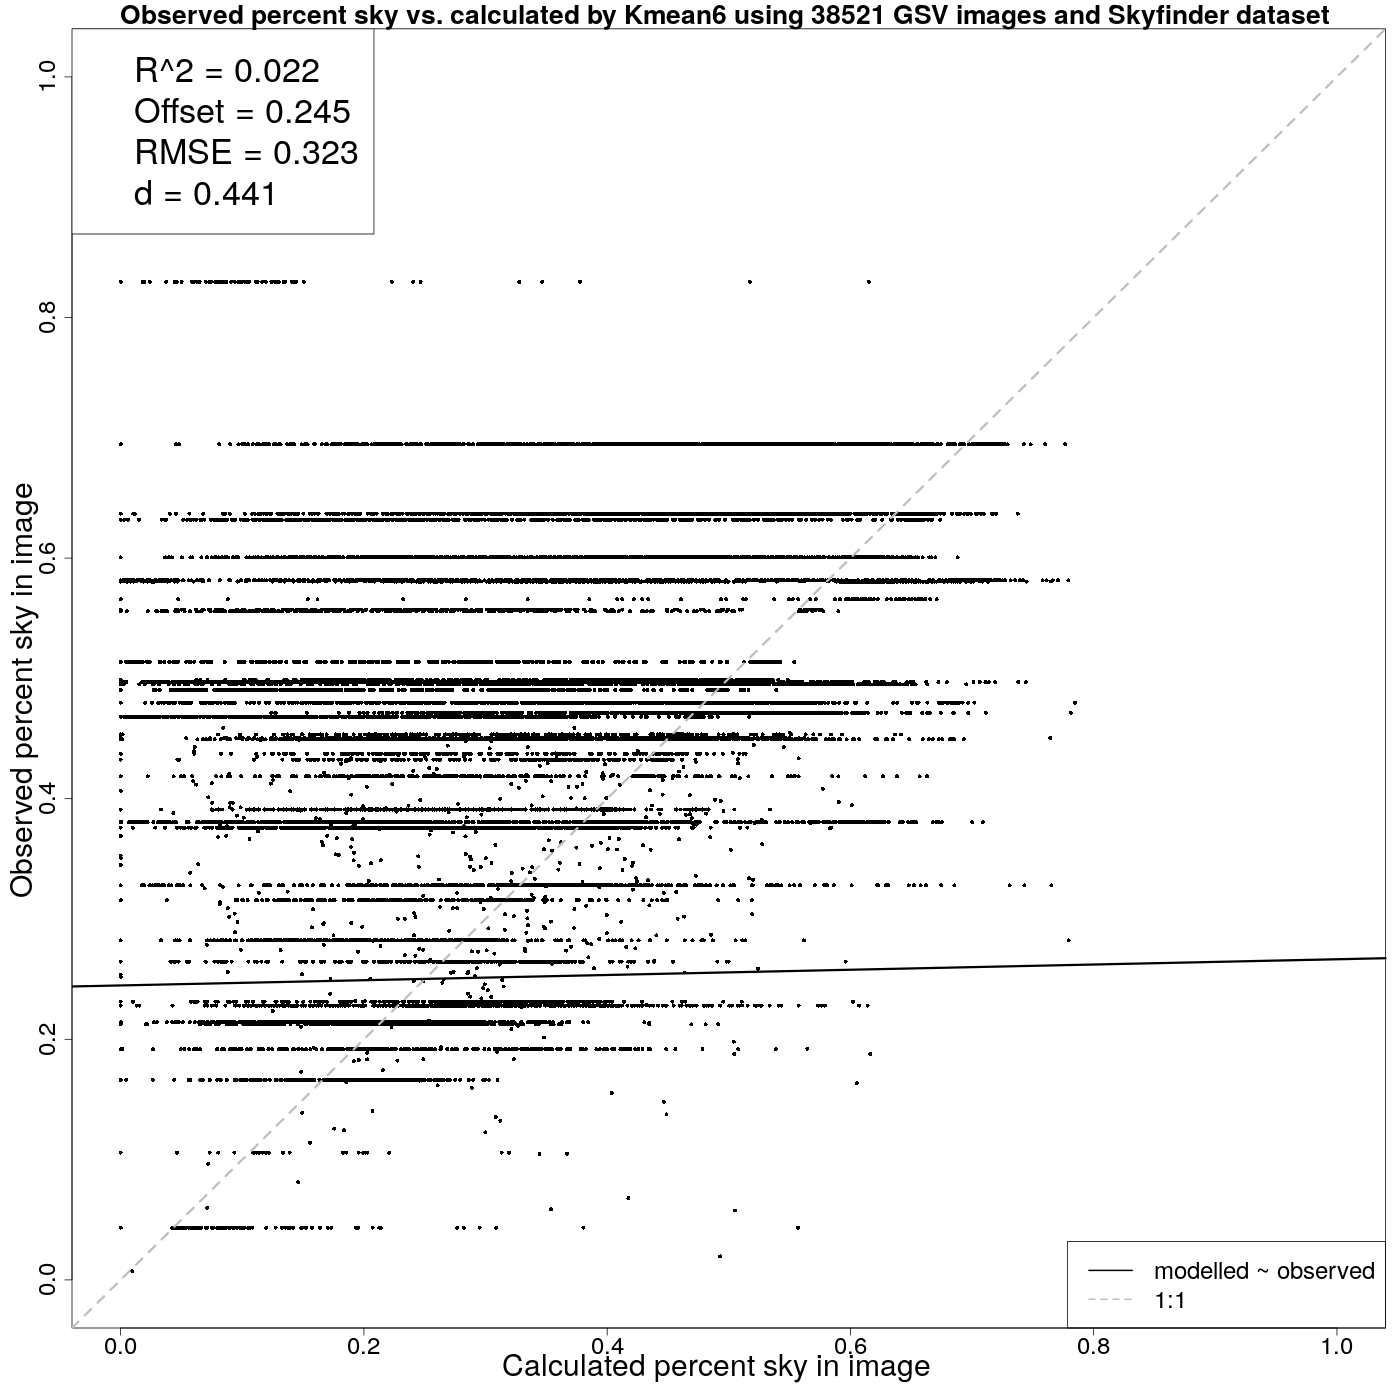
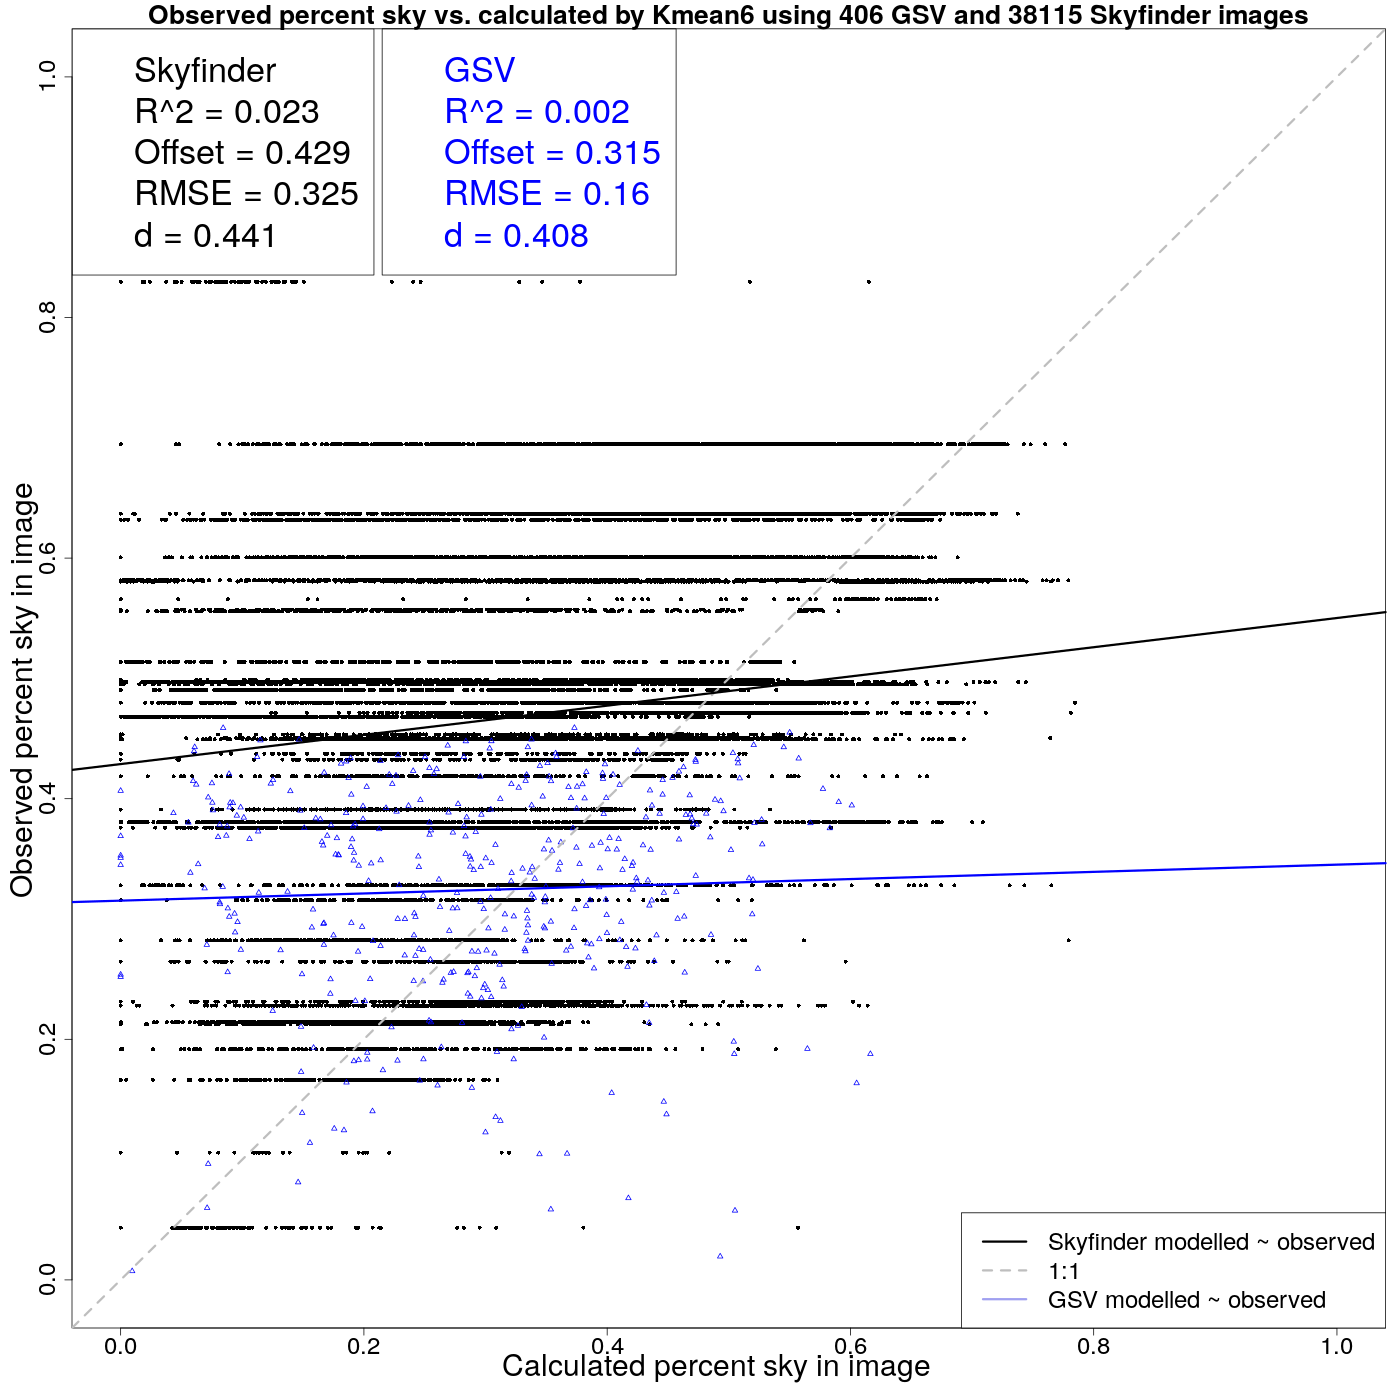
Updating all evaluation with split gsv/skyfinder figures

diff --git a/UrbanClimateICUC10-SVF.tex b/UrbanClimateICUC10-SVF.tex
@@ -200,8 +200,8 @@ Our sky pixel identification system used data from two main sources, the Skyfind
 \begin{tabular}{ l l l}
 \textbf{Abbreviation} & \textbf{Description} & \textbf{Variations}  \\ \hline
 Sobel  & Implementation of \cite{Wang2015a}'s Sobel operator/hybrid probability model & 6 \\	
-Mean &  Mean shift segmentation algorithm developed by the authors &4 \\
-K-means  & K-means clustering and HSL colour filtering algorithm developed by the authors &3 \\
+Mean &  Mean shift segmentation based algorithm developed by the authors &4 \\
+K-means  & K-means clustering and HSL colour filtering based algorithm developed by the authors &3 \\
 Sobel/flood-fill  & \cite{Middel2018}'s Sobel operator/flood-fill algorithm used as benchmark &1 \\
 \hline
 \end{tabular}
@@ -271,7 +271,7 @@ An implementation of the sky detection algorithm presented in \cite{Wang2015a} w
 
 Mean shift is an algorithm often used for image segmentation \citep{Comaniciu1997,Comaniciu2002}. Image segmentation involves decomposing images into homogeneous contiguous regions of pixels of similar colours or grey levels. Mean shift uses an iterative algorithm to pick search windows (spatial and range) of a certain radius in an initial location in an image, then compute a mean shift vector and translate the search window by that amount until convergence \citep{Comaniciu1997}. Segmentation results are highly dependent on input parameters for the algorithm, which include the spatial radius of the search window, colour range radius of the search window, and minimum density (the minimum number of pixels to constitute a region). The mean shift used in this project is based on a Java port by \cite{Pangburn2002} of the C++ based EDISON vision toolkit \citep{Christoudias2002}. 
 
-Four different variations of the input parameters were used, determined experimentally through a sensitivity test to work across the widest variety of images. For example, in an effort to shift the entire sky to a single colour, images with patchy multi-coloured clouds are more accurately segmented when the radius and density parameters are increased (in Figures \ref{fig:meantypes}a to d). However, this can have the effect of creating false positives in other images, for example, buildings (in Figures \ref{fig:meantypes}i to l centre left background) are increasingly segmented into the sky. The technique designations and parameters are detailed in Table \ref{tab:techniques2}. Mean shift is applied to each image with the chosen set of parameters and pixels of the most common colour (in the top half of the image) are marked as sky. Results are shown in Figure \ref{fig:meanresults}.
+Four different variations of the input parameters were used, determined experimentally through a sensitivity test to work across the widest variety of images. For example, in an effort to shift the entire sky to a single colour, images with patchy multi-coloured clouds are more accurately segmented when the radius and density parameters are increased (in Figures \ref{fig:meantypes}a to \ref{fig:meantypes}d). However, this can have the effect of creating false positives in other images, for example, buildings (in Figures \ref{fig:meantypes}i to \ref{fig:meantypes}l, centre left background) are increasingly segmented into the sky. The technique designations and parameters are detailed in Table \ref{tab:techniques2}. Mean shift is applied to each image with the chosen set of parameters and pixels of the most common colour (in the top half of the image) are marked as sky. Results are shown in Figure \ref{fig:meanresults}.
 
 
 \begin{table}[!htbp]
@@ -291,29 +291,24 @@ Mean\_7\_6\_100	& 7& 6& 100 \\
 
 \begin{figure}
 \centering    
-%\textbf{f)}\includegraphics[scale=0.10]{Images/mean/4880_orig.png} 
-\textbf{a)}\includegraphics[scale=0.08]{Images/mean/4880_3_6_100.png} 
-\textbf{b)}\includegraphics[scale=0.08]{Images/mean/4880_7_6_100.png} 
-\textbf{c)}\includegraphics[scale=0.08]{Images/mean/4880_5_7_210.png} 
-\textbf{d)}\includegraphics[scale=0.08]{Images/mean/4880_7_8_300.png} 
+\textbf{\phantom{\textbf{a)}}}\includegraphics[scale=0.08]{Images/mean/4880_3_6_100.png} 
+\textbf{\phantom{\textbf{b)}}}\includegraphics[scale=0.08]{Images/mean/4880_7_6_100.png} 
+\textbf{\phantom{\textbf{c)}}}\includegraphics[scale=0.08]{Images/mean/4880_5_7_210.png} 
+\textbf{\phantom{\textbf{d)}}}\includegraphics[scale=0.08]{Images/mean/4880_7_8_300.png} 1)
+\textbf{\phantom{\textbf{a)}}}\includegraphics[scale=0.08]{Images/mean/4880_3_6_100_ms_sky_mark.png} 
+\textbf{\phantom{\textbf{b)}}}\includegraphics[scale=0.08]{Images/mean/4880_7_6_100_ms_sky_mark.png} 
+\textbf{\phantom{\textbf{c)}}}\includegraphics[scale=0.08]{Images/mean/4880_5_7_210_ms_sky_mark.png} 
+\textbf{\phantom{\textbf{d)}}}\includegraphics[scale=0.08]{Images/mean/4880_7_8_300_ms_sky_mark.png} 2)
+\textbf{\phantom{\textbf{a)}}}\includegraphics[scale=0.08]{Images/mean/0070_3_6_100.png} 
+\textbf{\phantom{\textbf{b)}}}\includegraphics[scale=0.08]{Images/mean/0070_7_6_100.png} 
+\textbf{\phantom{\textbf{c)}}}\includegraphics[scale=0.08]{Images/mean/0070_5_7_210.png} 
+\textbf{\phantom{\textbf{d)}}}\includegraphics[scale=0.08]{Images/mean/0070_7_8_300.png} 3)
+\textbf{a)}\includegraphics[scale=0.08]{Images/mean/0070_3_6_100_ms_sky_mark.png} 
+\textbf{b)}\includegraphics[scale=0.08]{Images/mean/0070_7_6_100_ms_sky_mark.png} 
+\textbf{c)}\includegraphics[scale=0.08]{Images/mean/0070_5_7_210_ms_sky_mark.png} 
+\textbf{d)}\includegraphics[scale=0.08]{Images/mean/0070_7_8_300_ms_sky_mark.png} 4)
 
-\textbf{e)}\includegraphics[scale=0.08]{Images/mean/4880_3_6_100_ms_sky_mark.png} 
-\textbf{f)}\includegraphics[scale=0.08]{Images/mean/4880_7_6_100_ms_sky_mark.png} 
-\textbf{g)}\includegraphics[scale=0.08]{Images/mean/4880_5_7_210_ms_sky_mark.png} 
-\textbf{h)}\includegraphics[scale=0.08]{Images/mean/4880_7_8_300_ms_sky_mark.png} 
-
-%\textbf{a)}\includegraphics[scale=0.10]{Images/mean/0070_orig.png} 
-\textbf{i)}\includegraphics[scale=0.08]{Images/mean/0070_3_6_100.png} 
-\textbf{j)}\includegraphics[scale=0.08]{Images/mean/0070_7_6_100.png} 
-\textbf{k)}\includegraphics[scale=0.08]{Images/mean/0070_5_7_210.png} 
-\textbf{l)}\includegraphics[scale=0.08]{Images/mean/0070_7_8_300.png} 
-
-\textbf{m)}\includegraphics[scale=0.08]{Images/mean/0070_3_6_100_ms_sky_mark.png} 
-\textbf{n)}\includegraphics[scale=0.08]{Images/mean/0070_7_6_100_ms_sky_mark.png} 
-\textbf{o)}\includegraphics[scale=0.08]{Images/mean/0070_5_7_210_ms_sky_mark.png} 
-\textbf{p)}\includegraphics[scale=0.08]{Images/mean/0070_7_8_300_ms_sky_mark.png} 
-
-\caption{\bf Comparison outputs of intermediate mean shift segmentation algorithm processing steps using varying parameters, showing columns a) Mean\_3\_6\_100, b) Mean\_7\_6\_100, c) Mean\_5\_7\_210, d) Mean\_7\_8\_300 and rows e) and m) final marked images. }
+\caption{\bf Comparison outputs of intermediate mean shift segmentation algorithm processing steps using varying parameters, showing columns a) Mean\_3\_6\_100, b) Mean\_7\_6\_100, c) Mean\_5\_7\_210, d) Mean\_7\_8\_300 and rows 1) and 3) intermediate mean shifted and 2) and 4) the final marked images. }
  \label{fig:meantypes}  
 \end{figure} 
 
@@ -368,7 +363,7 @@ K-mean\_14  & 14 & 0.4& 0.75& 0.3 & 0.95 & 0.65 & 0.2 \\
 
 \subsubsection{\cite{Middel2018} Sobel operator/flood-fill algorithm}\label{sec:floodfill}
 
-\cite{Middel2018} developed a process based on a Sobel filter \citep{Sobel1968} and flood-fill algorithm \citep{Laungrungthip2008,Middel2017}. This method was designed to calculate sky view factor from Google Street View panoramas (rescaled to 512x512) that had the bottom half cropped off and were converted to a fisheye projection. All 38,521 images in the combined training and validation dataset were processed with this algorithm (sky pixels marked with white, RGB 255,255,255), compared to validation images, and results saved for a comparison with our process flow results. Note, we used this system to process varied outdoor imagery, not cropped below the horizon fisheye images as this algorithm was originally designed to process. Results are shown in Figure \ref{fig:sobelflood}.
+\cite{Middel2018} developed a process based on a Sobel filter \citep{Sobel1968} and flood-fill algorithm \citep{Laungrungthip2008,Middel2017}. This method was designed to calculate sky view factor from Google Street View panoramas that had the bottom half cropped off and were converted to a fisheye projection. Note, this algorithm also rescales the imagery to 512x512. All 38,521 images in the combined training and validation dataset were processed with this algorithm (sky pixels marked with white, RGB 255,255,255), compared to validation images, and results saved for a comparison with our process flow results. In our benchmark comparison, we used this system to process varied outdoor imagery, not cropped below the horizon fisheye images as this algorithm was originally designed to process. Results are shown in Figure \ref{fig:sobelflood}.
 
 
 
@@ -411,23 +406,24 @@ There are three sets of results reported in this section. The first is a compari
 All 14 techniques and parameter combinations were used to process the two datasets of the 38,115 Skyfinder, 407 GSV images, and the 38,521 combined dataset. A summary of R$^{2}$ and RMSE statistics for evaluations against the three datasets is presented in Table \ref{tab:evalall}. Plots of a number of the better performing techniques are presented in Figure \ref{fig:errorallcombined}. Note, the strong horizontal lines in these figures are due to the nature of the dataset that contain large groups of the same scenes (with the same percentage of sky) under different lighting and weather conditions, resulting in a wide range of calculated results.
 
 \begin{table}[!htbp]
-\caption{\bf Evaluation of all techniques and parameters for Skyfinder dataset, GSV dataset, and combined dataset. (RMSE units in \%/100.) \label{tab:evalall}}     
-\begin{tabular}{ l  l l l l l l}
-\textbf{Designation}  & \textbf{Skyfinder R$^{2}$} & \textbf{Skyfinder RMSE} & \textbf{GSV R$^{2}$} & \textbf{GSV RMSE} & \textbf{All R$^{2}$} & \textbf{All RMSE} \\ \hline
-Mean\_7\_6\_100	&0.746&0.104&0.484&0.076&0.749&0.104 \\
-Sobel\_70 &0.395&0.134&0.056&0.107&0.398&0.133 \\
-Mean\_5\_7\_210	&0.658&0.142&0.489&0.073&0.661&0.141 \\
-Mean\_7\_8\_300 &0.645&0.143&0.505&0.07&0.648&0.142 \\
-Mean\_3\_6\_100	&0.657&0.148&0.561&0.066&0.66&0.147 \\
-Sobel\_60 &0.288&0.104&0.003&0.188&0.288&0.165 \\
-Sobel\_80 &0.254&0.177&0.436&0.07&0.259&0.176 \\
-Sobel/flood-fill &0.134&0.211&0.067&0.312&0.13&0.212 \\
-Sobel\_50 &0.104&0.23&0.021&0.303&0.103&0.231 \\
-Sobel\_90 &0.041&0.317&0.212&0.144&0.04&0.316 \\
-K-mean\_6 &0.022&0.325&0.007&0.155&0.022&0.323 \\
-K-mean\_14 &0.029&0.328&0.019&0.233&0.029&0.327 \\
-K-mean\_12 &0.028&0.343&0.017&0.264&0.03&0.342 \\
-Sobel\_95 &0&0.421&0.045&0.225&0.0&0.419 \\
+\caption{\bf Evaluation of all techniques and parameters for Skyfinder dataset and GSV dataset. \label{tab:evalall}}     
+\begin{tabular}{ l  l l l l }
+\textbf{Designation}  & \textbf{Skyfinder R$^{2}$} & \textbf{Skyfinder RMSE} & \textbf{GSV R$^{2}$} & \textbf{GSV RMSE}  \\ \hline
+Mean\_3\_6\_100	&0.658&0.148&0.603&0.062 \\
+Mean\_5\_7\_210	&0.659&0.142&0.526&0.069 \\
+Mean\_7\_6\_100	&0.748&0.104&0.525&0.072 \\
+Mean\_7\_8\_300 &0.646&0.143&0.544&0.067  \\
+K-mean\_6       &0.023&0.325&0.002&0.16 \\
+K-mean\_12      &0.028&0.343&0.017&0.264 \\
+K-mean\_14      &0.029&0.328&0.023&0.233 \\
+Sobel\_50       &0.104&0.23 &0.026&0.302 \\
+Sobel\_60       &0.288&0.164&0.005&0.189 \\
+Sobel\_70       &0.396&0.134&0.049&0.108 \\
+Sobel\_80       &0.255&0.177&0.433&0.07  \\
+Sobel\_90       &0.041&0.317&0.214&0.142 \\
+Sobel\_95       &0    &0.421&0.053&0.224 \\
+\hline
+Sobel/flood-fill&0.134&0.211&0.067&0.312 \\
 \hline
 \end{tabular}
 \end{table}
